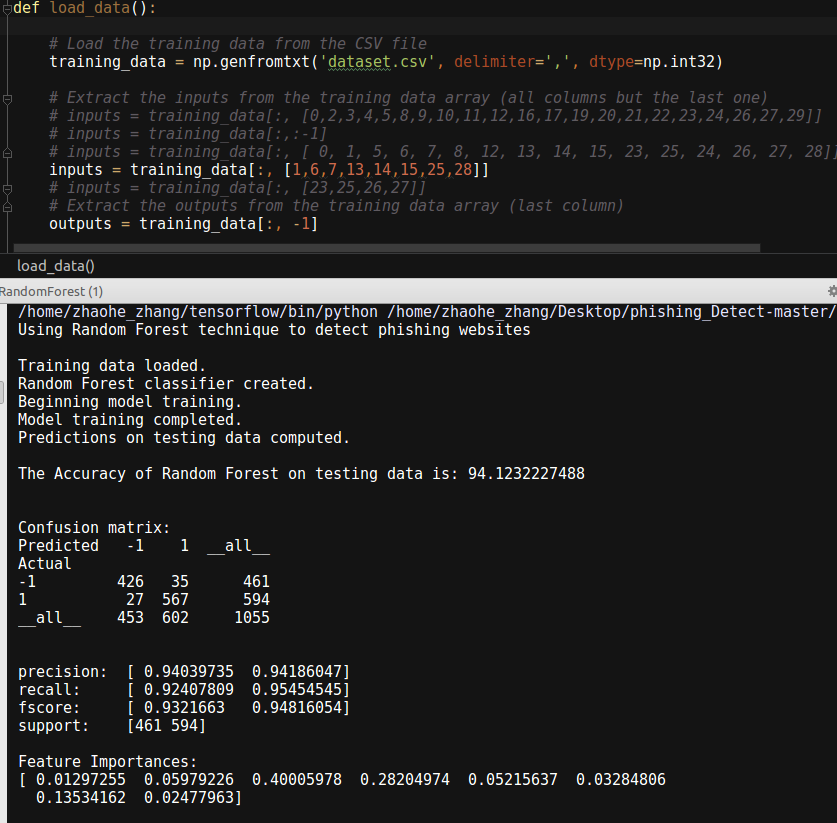
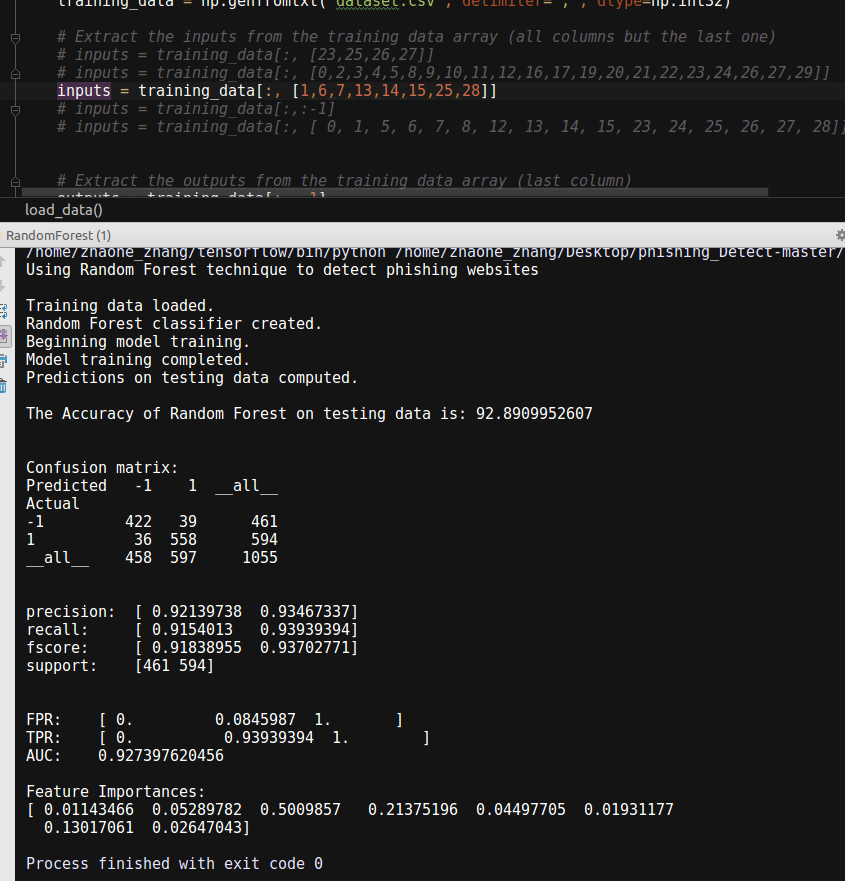
Update code and set results screenshots

diff --git a/Code/RandomForest.py b/Code/RandomForest.py
@@ -1,5 +1,6 @@
 import numpy as np
 
+from sklearn import metrics
 from sklearn.ensemble import RandomForestClassifier as RFC
 from sklearn.metrics import accuracy_score
 from sklearn.metrics import precision_recall_fscore_support as score
@@ -12,11 +13,13 @@ def load_data():
     training_data = np.genfromtxt('dataset.csv', delimiter=',', dtype=np.int32)
 
     # Extract the inputs from the training data array (all columns but the last one)
-    # inputs = training_data[:, [0,2,3,4,5,8,9,10,11,12,16,17,19,20,21,22,23,24,26,27,29]]    #Only 2
-    # inputs = training_data[:,:-1]
-    inputs = training_data[:, [ 0, 1, 5, 6, 7, 8, 12, 13, 14, 15, 23, 24, 25, 26, 27, 28]] #95.8 - 16
-    # inputs = training_data[:, [1,6,7,13,14,15,25,28]]
     # inputs = training_data[:, [23,25,26,27]]
+    # inputs = training_data[:, [0,2,3,4,5,8,9,10,11,12,16,17,19,20,21,22,23,24,26,27,29]]    #Only 2
+    # inputs = training_data[:, [1,6,7,13,14,15,25,28]]
+    inputs = training_data[:,:-1]
+    # inputs = training_data[:, [ 0, 1, 5, 6, 7, 8, 12, 13, 14, 15, 23, 24, 25, 26, 27, 28]] #95.8 - 16
+
+
     # Extract the outputs from the training data array (last column)
     outputs = training_data[:, -1]
 
@@ -59,11 +62,24 @@ if __name__ == '__main__':
     print ('\n')
     print("Confusion matrix:\n%s" % confusion_matrix)
     print ('\n')
+    
+    #in body
+    fpr, tpr, thresholds = metrics.roc_curve(test_outputs,predictions)
+    auc = metrics.auc(fpr, tpr)
+    #print accuracy precision recall f1 here
 
     print ('precision: \t{}'.format(precision))
     print ('recall: \t{}'.format(recall))
     print ('fscore: \t{}'.format(fscore))
     print ('support: \t{}'.format(support))
+
+    print ('\n')
+
+    print ('FPR: \t{}'.format(fpr))
+    print ('TPR: \t{}'.format(tpr))
+    print ('AUC: \t{}'.format(auc))
+
+
 
     importance = classifier.feature_importances_
     print "\nFeature Importances: \n" + str(importance)
